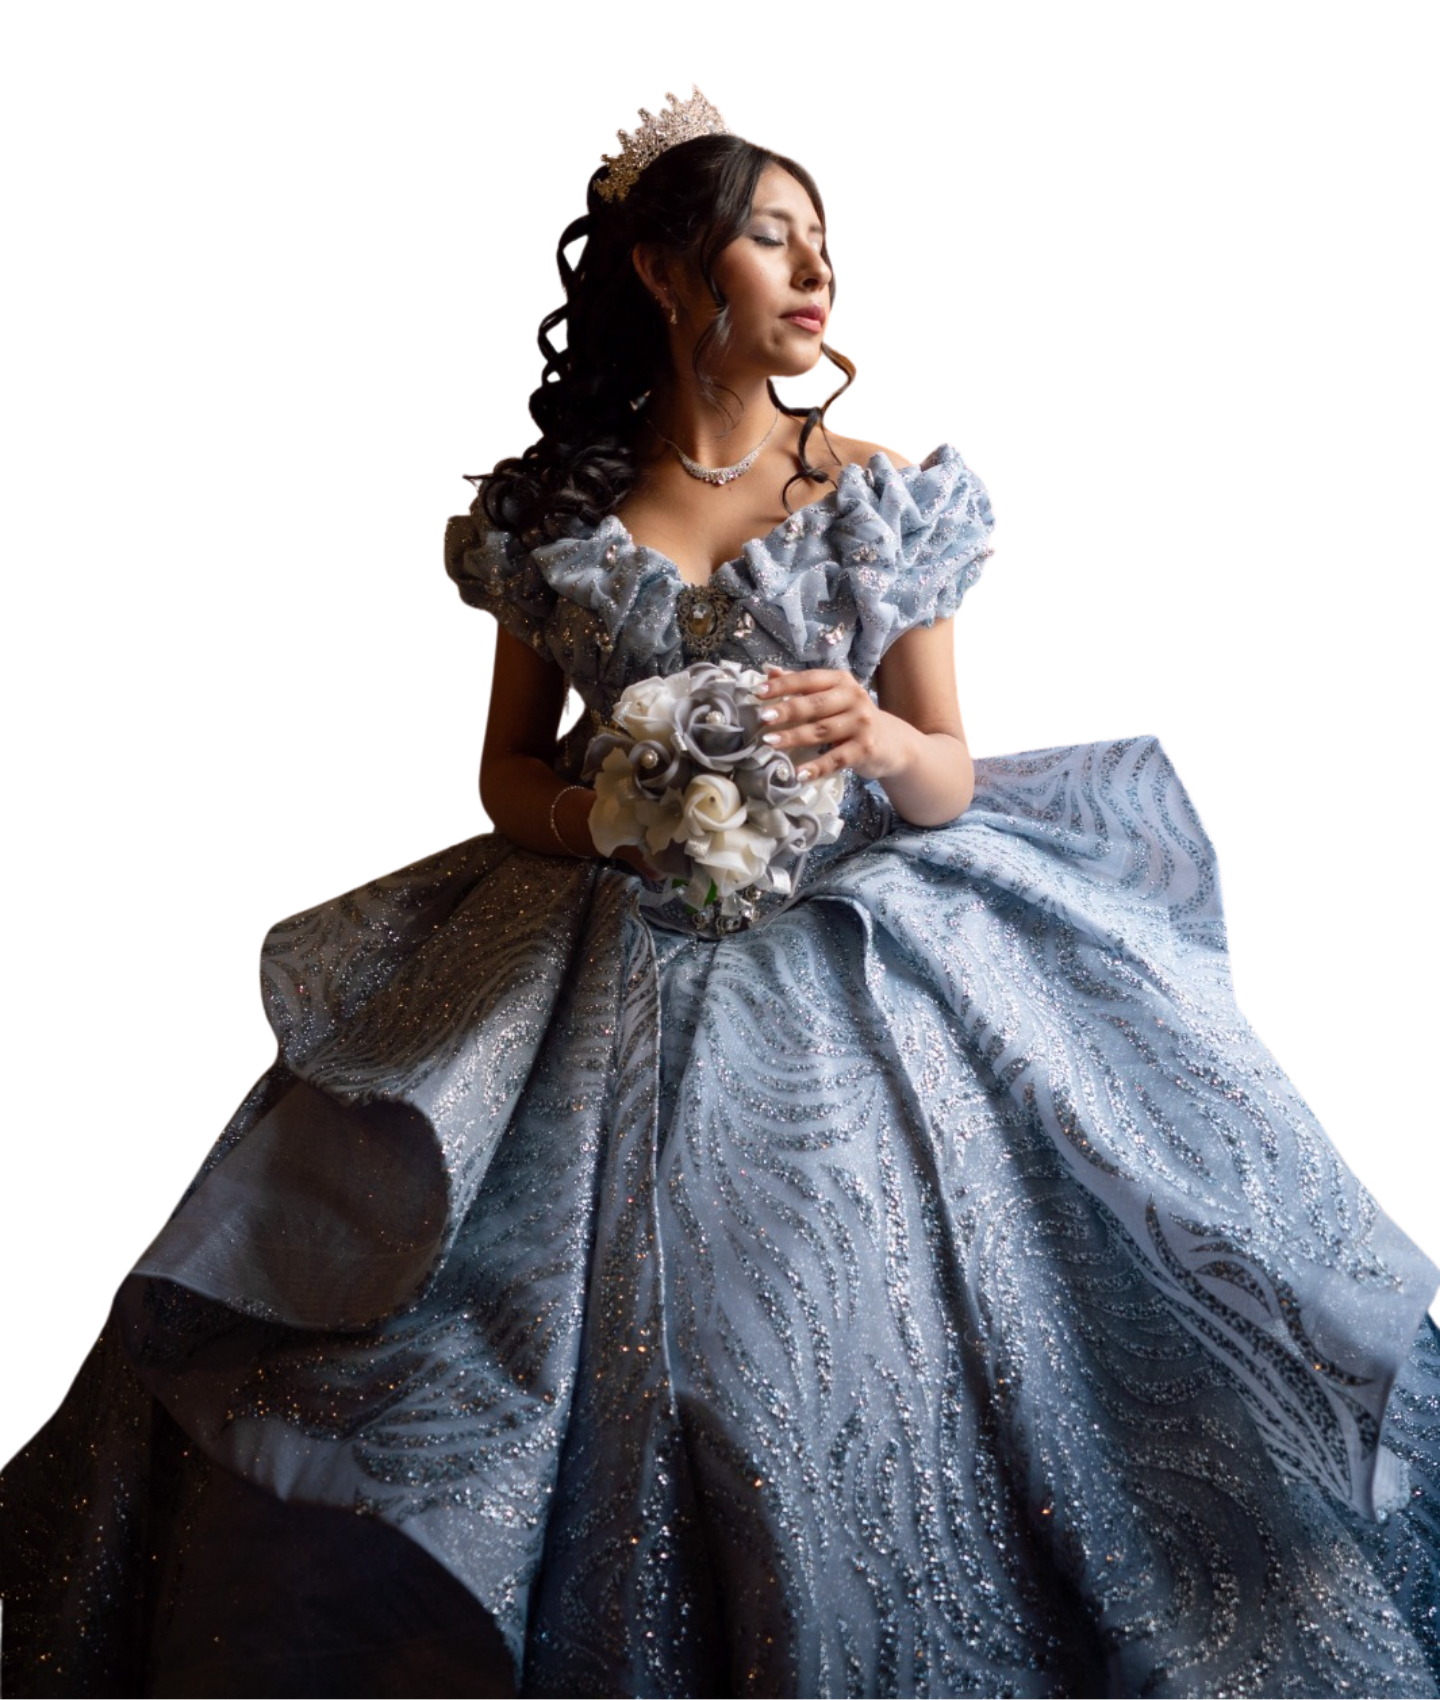
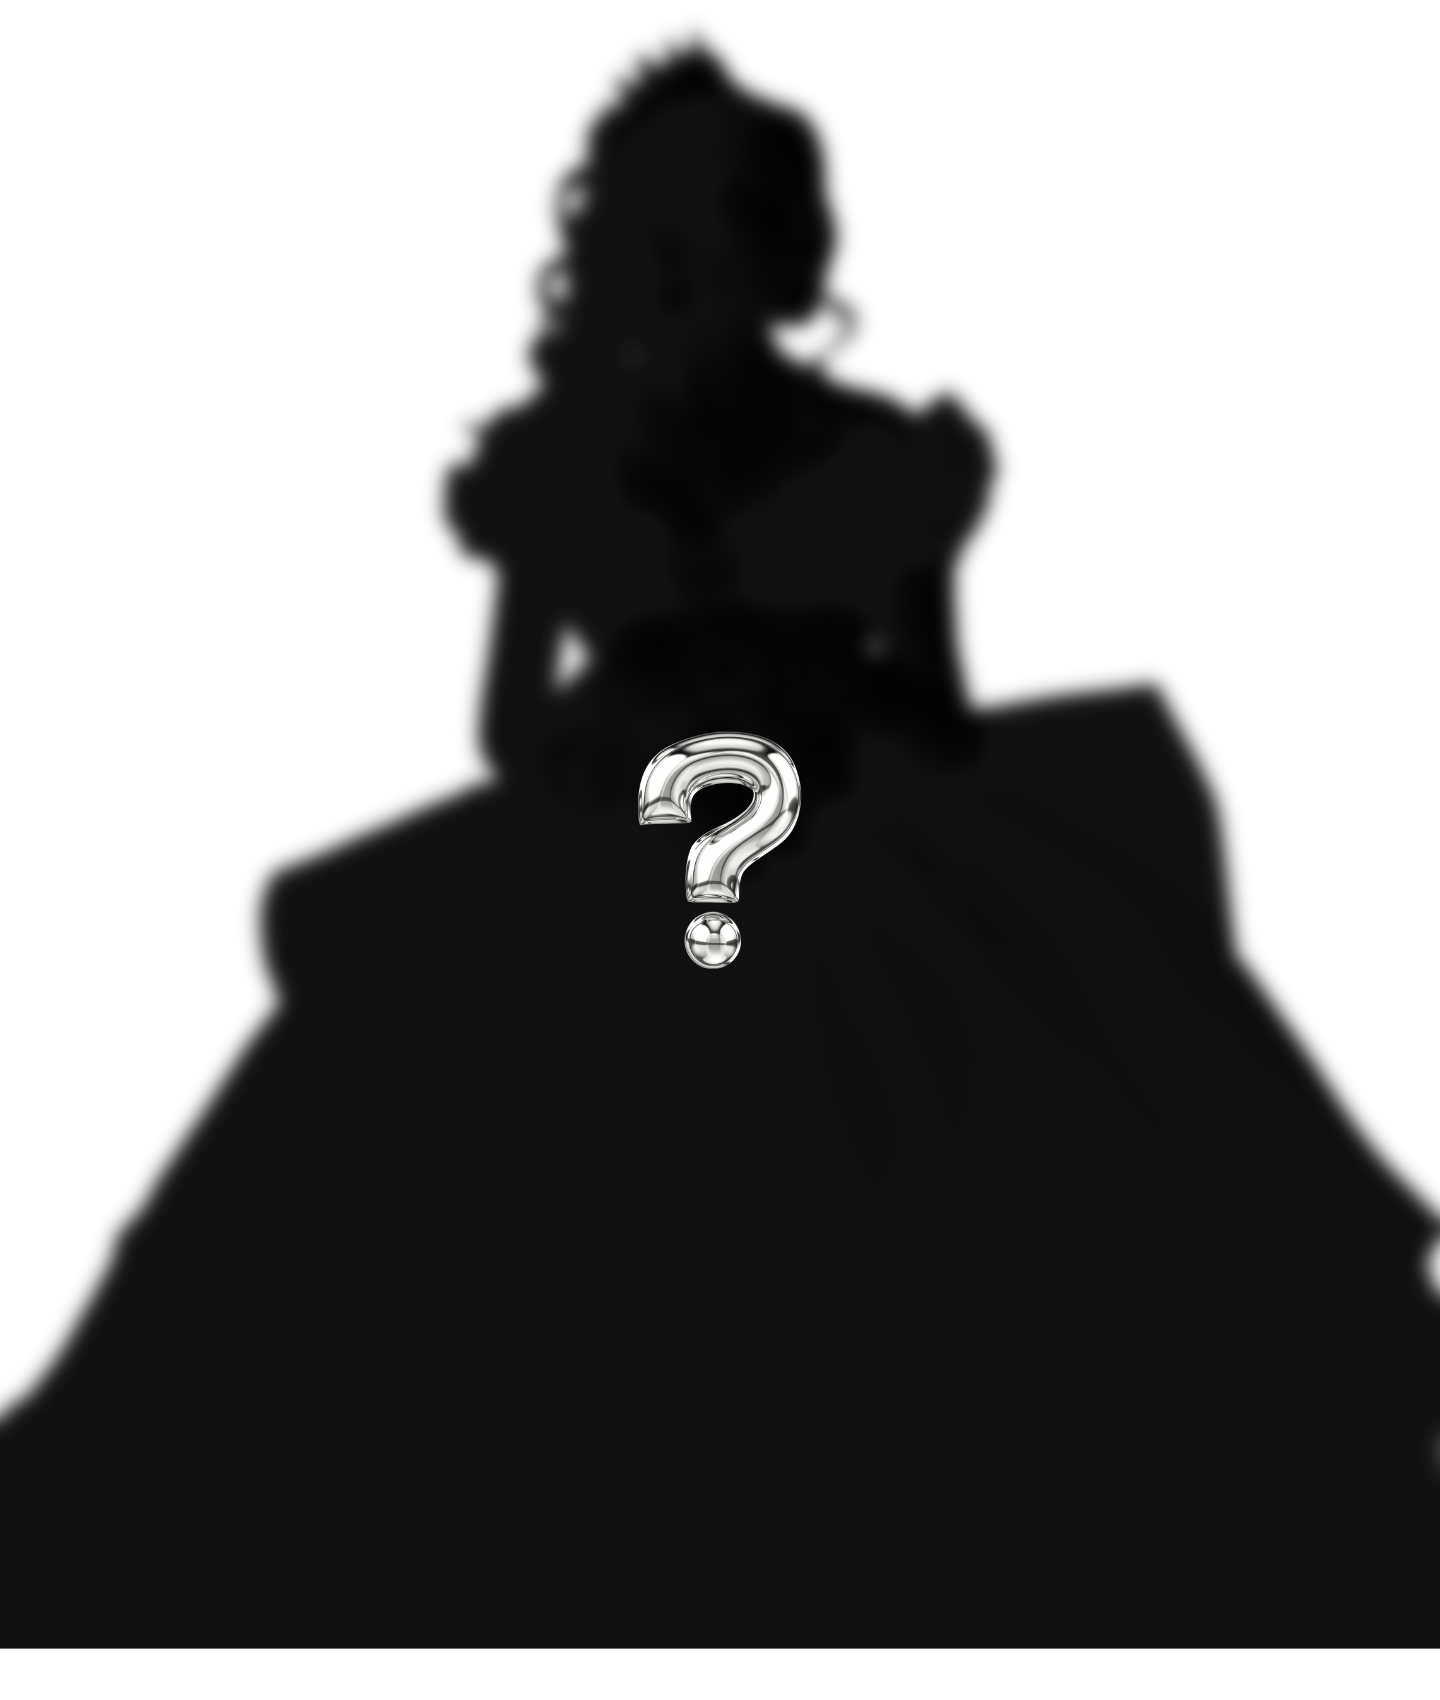
v0.20

diff --git a/src/components/invitation/WhatsappGroup.tsx b/src/components/invitation/WhatsappGroup.tsx
@@ -23,6 +23,7 @@ export function WhatsappGroup({
   fallbackDescription?: string;
 }) {
   const [meta, setMeta] = useState<Meta | null>(null);
+  const [imgError, setImgError] = useState(false);
 
   useEffect(() => {
     if (!url) return;
@@ -37,7 +38,7 @@ export function WhatsappGroup({
   const name = meta?.title || fallbackName || "Grupo del evento";
   const description = meta?.description || fallbackDescription || "";
   const image = meta?.image || fallbackPhoto || "";
-  const hasImage = image && image.length > 0;
+  const hasImage = image && image.length > 0 && !imgError;
 
   return (
     <Section backgroundImage="/invitaciones/demo-quince/img/papel-fondo.png" fullWidth>
@@ -45,8 +46,8 @@ export function WhatsappGroup({
         Únete al grupo del evento
       </p>
 
-      <div className="rounded-xl border border-white/10 bg-[var(--inv-surface)]/40 backdrop-blur-md overflow-hidden max-w-sm mx-auto text-left">
-        <div className="relative w-full h-36 overflow-hidden bg-[#25D366]/10 flex items-center justify-center">
+      <div className="rounded-xl border border-white/10 bg-[var(--inv-surface)] overflow-hidden max-w-sm mx-auto text-left">
+        <div className="relative w-full aspect-square overflow-hidden bg-[#25D366]/10 flex items-center justify-center">
           {hasImage ? (
             <Image
               src={image}
@@ -54,6 +55,7 @@ export function WhatsappGroup({
               fill
               className="object-cover"
               unoptimized
+              onError={() => setImgError(true)}
             />
           ) : (
             <MessageCircle className="w-16 h-16 text-[#25D366]/30" />
@@ -66,16 +68,16 @@ export function WhatsappGroup({
               <MessageCircle className="w-5 h-5 text-[#25D366]" />
             </div>
             <div className="min-w-0">
-              <p className="font-display text-gray-800 text-lg truncate">{name}</p>
+              <p className="font-display text-gray-100 text-lg truncate">{name}</p>
               {description && description !== "WhatsApp Group Invite" && (
-                <p className="text-gray-500 text-xs truncate">
+                <p className="text-gray-400 text-xs truncate">
                   {description}
                 </p>
               )}
             </div>
           </div>
 
-          <div className="flex items-center gap-1.5 text-gray-500 text-xs mb-3">
+          <div className="flex items-center gap-1.5 text-gray-400 text-xs mb-3">
             <Users className="w-3.5 h-3.5" />
             <span>Grupo de WhatsApp</span>
           </div>

diff --git a/src/content/ximena-cahuana-xv/data.ts b/src/content/ximena-cahuana-xv/data.ts
@@ -1,7 +1,7 @@
 import { InvitationData } from "@/content/types";
 
 export const ximenaCahuanaXv: InvitationData = {
-  slug: "ximena-cahuana-xv",
+  slug: "ximena-xv",
   eventType: "xv",
   theme: "dark-luxury-cinematic",
   layout: "cinematic",
@@ -24,7 +24,7 @@ export const ximenaCahuanaXv: InvitationData = {
 
   quote: "La vida es una celebración y Con gusto la haremos realidad. Con la alegría de ver cumplido un sueño, mis padres y yo tenemos el honor de invitarte a la celebración de mis XV años",
 
-  eventDate: "2026-08-29T19:00:00-05:00",
+  eventDate: "2026-08-29T18:00:00-05:00",
 
   location: {
     venueName: "Salón Flor y Fiesta",
@@ -33,15 +33,20 @@ export const ximenaCahuanaXv: InvitationData = {
     mapsUrl: "https://maps.google.com/?q=Salón+de+Recepciones+Flor+y+Fiesta+Arequipa",
   },
 
+  whatsappGroupUrl: "https://chat.whatsapp.com/FqHkxmHQRvu0tF6n33jyZz?s=sw&p=a&ilr=0",
+  whatsappGroupName: "",
+  whatsappGroupPhoto: "",
+  whatsappGroupDescription: "",
+
   guidelines: {
     dressCode: {
       level: "Elegante",
-      femaleSuggestions: ["Vestido largo", "Tacos altos", "Joyas doradas"],
+      femaleSuggestions: ["Completamente libre"],
       maleSuggestions: ["Traje oscuro", "Camisa blanca", "Zapatos formales"],
     },
     colorsToAvoid: [
+      { name: "Plateado", hex: "#C0C0C0" },
       { name: "Negro", hex: "#000000" },
-      { name: "Azul", hex: "#0000FF" },
     ],
     notes: ["Llegar puntual para la entrada", "Se asistira solo con la invitación confirmada"],
   },
@@ -85,11 +90,11 @@ export const ximenaCahuanaXv: InvitationData = {
   ],
 
   timeline: [
-    { time: "19:00", title: "Recepción", description: "Bienvenida y mocktail de bienvenida" },
+    { time: "18:00", title: "Recepción", description: "Bienvenida y mocktail de bienvenida" },
     { time: "20:00", title: "Ceremonia", description: "Inicio de la ceremonia inicial" },
-    { time: "21:00", title: "Cena", description: "Presentación de los invitados" },
     { time: "22:00", title: "Fiesta", description: "Pista de baile y música en vivo" },
-    { time: "00:00", title: "Cierre", description: "Cierre de la celebración" },
+    { time: "00:00", title: "Hora Loca", description: "Empieza la hora loca" },
+    { time: "02:00", title: "Cierre", description: "Cierre de la celebración" },
   ],
 
   backgroundVideo: {

diff --git a/src/app/[slug]/page.tsx b/src/app/[slug]/page.tsx
@@ -136,10 +136,18 @@ export default async function InvitationPage({
                   protagonists={data.hero.protagonists}
                   motivo={data.hero.motivo}
                   nameSvg="/invitaciones/ximena-cahuana-xv/img/ximena.png"
-                />
+                >
+                  {data.backgroundMusic && (
+                    <MusicPlayer
+                      src={data.backgroundMusic.src}
+                      title={data.backgroundMusic.title}
+                      artist={data.backgroundMusic.artist}
+                    />
+                  )}
+                </CinematicHero>
                 <div className="absolute inset-x-0 top-[42%] bottom-0 overflow-hidden pointer-events-none select-none">
                   <Image
-                    src="/invitaciones/ximena-cahuana-xv/personaje.png"
+                    src="/invitaciones/ximena-cahuana-xv/personaje.png?v=2"
                     alt=""
                     fill
                     sizes="100vw"
@@ -175,15 +183,6 @@ export default async function InvitationPage({
                   mapsUrl={data.location.mapsUrl}
                 />
               </RevealSection>
-              {data.backgroundMusic && (
-                <RevealSection>
-                  <MusicPlayer
-                    src={data.backgroundMusic.src}
-                    title={data.backgroundMusic.title}
-                    artist={data.backgroundMusic.artist}
-                  />
-                </RevealSection>
-              )}
               {data.guestArtists && data.guestArtists.length > 0 && (
                 <RevealSection>
                   <GuestArtists artists={data.guestArtists} />

diff --git a/src/app/api/whatsapp-meta/route.ts b/src/app/api/whatsapp-meta/route.ts
@@ -6,6 +6,21 @@ interface WhatsappMeta {
   image: string;
 }
 
+function decodeHtmlEntities(value: string): string {
+  return value
+    .replace(/&amp;/g, "&")
+    .replace(/&lt;/g, "<")
+    .replace(/&gt;/g, ">")
+    .replace(/&quot;/g, '"')
+    .replace(/&#39;/g, "'")
+    .replace(/&#x([0-9a-fA-F]+);/g, (_m, hex: string) =>
+      String.fromCodePoint(parseInt(hex, 16))
+    )
+    .replace(/&#(\d+);/g, (_m, dec: string) =>
+      String.fromCodePoint(parseInt(dec, 10))
+    );
+}
+
 function extractMeta(html: string): WhatsappMeta {
   const ogTitle = html.match(/<meta\s+property="og:title"\s+content="([^"]*)"/i)
     ?? html.match(/<meta\s+content="([^"]*)"\s+property="og:title"/i);
@@ -15,9 +30,9 @@ function extractMeta(html: string): WhatsappMeta {
     ?? html.match(/<meta\s+content="([^"]*)"\s+property="og:image"/i);
 
   return {
-    title: ogTitle?.[1] ?? "",
-    description: ogDesc?.[1] ?? "",
-    image: ogImage?.[1] ?? "",
+    title: decodeHtmlEntities(ogTitle?.[1] ?? ""),
+    description: decodeHtmlEntities(ogDesc?.[1] ?? ""),
+    image: decodeHtmlEntities(ogImage?.[1] ?? ""),
   };
 }
 

diff --git a/src/components/invitation/EventDetails.tsx b/src/components/invitation/EventDetails.tsx
@@ -50,7 +50,7 @@ export function EventDetails({
         {/* Columna 1 — Info */}
         <div className="bg-[var(--inv-surface)]/40 backdrop-blur-md rounded-xl p-6 border border-white/8 text-center md:text-left">
           <div className="flex flex-col items-center gap-1 mb-4">
-            <MapPin className="w-6 h-6 text-[#C0C0C0]" />
+            <MapPin className="w-8 h-8 text-[#C0C0C0]" />
             <p className="text-2xl md:text-3xl uppercase" style={{ fontFamily: "var(--font-cinematic-display)" }}>{venueName}</p>
           </div>
           <p className="text-[var(--inv-text-muted)] mb-1">{address}</p>

diff --git a/src/components/invitation/RSVPForm.tsx b/src/components/invitation/RSVPForm.tsx
@@ -81,8 +81,8 @@ export function RSVPForm({
 
   return (
     <Section id="confirmar">
-      <div className="flex items-center justify-center gap-2 mb-6">
-        <CheckCircle className="w-5 h-5 text-[#C0C0C0]" />
+      <div className="flex flex-col items-center justify-center gap-2 mb-6">
+        <CheckCircle className="w-8 h-8 text-[#C0C0C0]" />
         <p className="font-display text-3xl md:text-4xl">Confirma tu asistencia</p>
       </div>
       <form onSubmit={handleSubmit} className="flex flex-col gap-4 text-left max-w-sm mx-auto">

diff --git a/src/components/invitation/cinematic/CinematicTimeline.tsx b/src/components/invitation/cinematic/CinematicTimeline.tsx
@@ -5,7 +5,7 @@ export function CinematicTimeline({ items }: { items: TimelineItem[] }) {
   return (
     <div className="w-full max-w-md mx-auto px-6 py-14 md:max-w-2xl md:px-10 md:py-16 lg:max-w-4xl lg:px-16 lg:py-20">
       <div className="flex items-center justify-center mb-2">
-        <Clock className="w-5 h-5 text-[#C0C0C0]" />
+        <Clock className="w-8 h-8 text-[#C0C0C0]" />
       </div>
       <h2
         className="text-3xl sm:text-4xl md:text-5xl font-bold mb-10 sm:mb-14 text-center"

diff --git a/src/components/invitation/cinematic/CinematicHero.tsx b/src/components/invitation/cinematic/CinematicHero.tsx
@@ -8,11 +8,13 @@ export function CinematicHero({
   protagonists,
   motivo,
   nameSvg,
+  children,
 }: {
   photo: string;
   protagonists: string;
   motivo: string;
   nameSvg?: string;
+  children?: React.ReactNode;
 }) {
   function handleScrollDown() {
     const section = document.getElementById("quote");
@@ -55,6 +57,8 @@ export function CinematicHero({
             {protagonists}
           </h1>
         )}
+
+        {children}
 
         <button
           onClick={handleScrollDown}

diff --git a/src/components/invitation/SongVoting.tsx b/src/components/invitation/SongVoting.tsx
@@ -172,7 +172,7 @@ export function SongVoting({ slug }: { slug: string }) {
                   />
                 ) : (
                   <div className="w-12 h-12 rounded-md bg-[#C0C0C0]/10 flex items-center justify-center flex-shrink-0">
-                    <Music className="w-5 h-5 text-[#C0C0C0]" />
+        <Music className="w-8 h-8 text-[#C0C0C0]" />
                   </div>
                 )}
                 <span className="flex-1 text-sm min-w-0">

diff --git a/src/components/invitation/Gifts.tsx b/src/components/invitation/Gifts.tsx
@@ -121,7 +121,7 @@ export function Gifts({
   return (
     <Section>
       <div className="flex flex-col items-center gap-2 mb-4">
-        <Gift className="w-5 h-5 text-[#C0C0C0]" />
+        <Gift className="w-8 h-8 text-[#C0C0C0]" />
         <p className="font-display text-3xl md:text-4xl">Regalos</p>
       </div>
       {message && <p className="text-[var(--inv-text-muted)] mb-6">{message}</p>}

diff --git a/src/content/registry.ts b/src/content/registry.ts
@@ -6,7 +6,7 @@ import { ximenaCahuanaXv } from "./ximena-cahuana-xv/data";
 // + una línea aquí. No se tocan rutas ni componentes.
 export const invitations: Record<string, InvitationData> = {
   "demo-quince": demoQuince,
-  "ximena-cahuana-xv": ximenaCahuanaXv,
+  "ximena-xv": ximenaCahuanaXv,
 };
 
 export function getAllSlugs(): string[] {

diff --git a/next.config.ts b/next.config.ts
@@ -2,6 +2,9 @@ import type { NextConfig } from "next";
 
 const nextConfig: NextConfig = {
   images: {
+    localPatterns: [
+      { pathname: "/invitaciones/**" },
+    ],
     remotePatterns: [
       { protocol: "https", hostname: "*.dzcdn.net" },
       { protocol: "https", hostname: "pps.whatsapp.net" },
